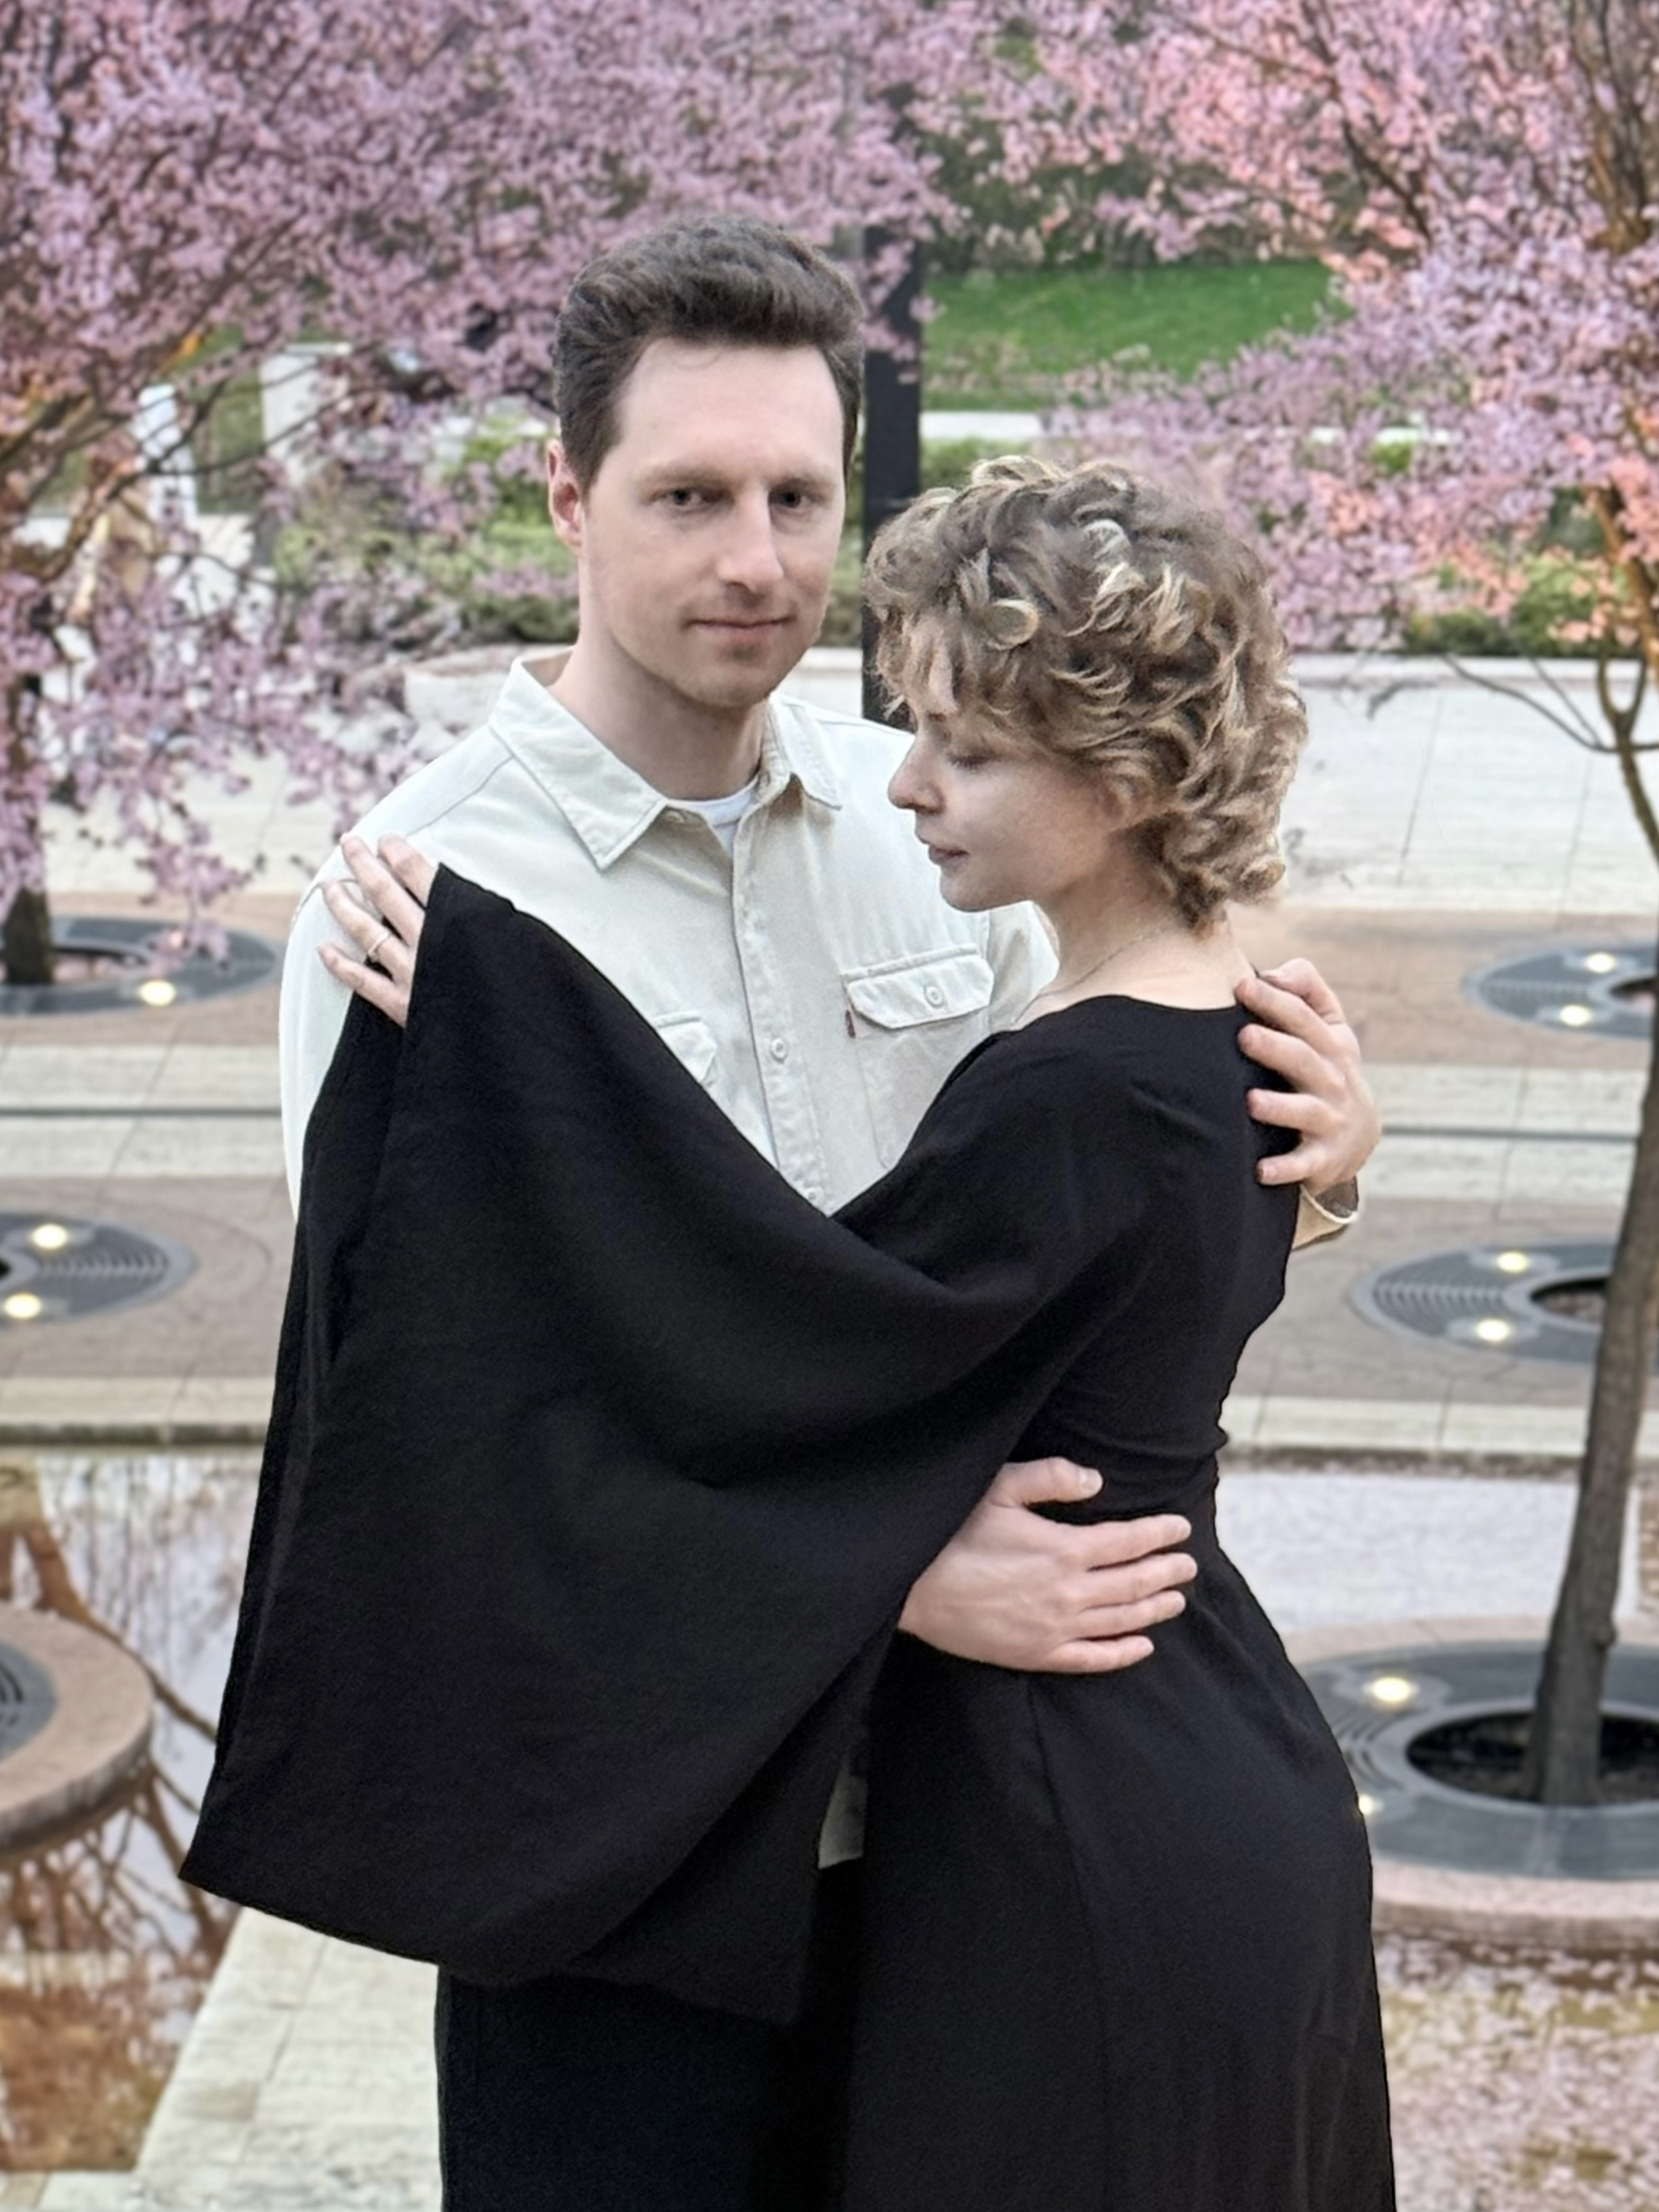
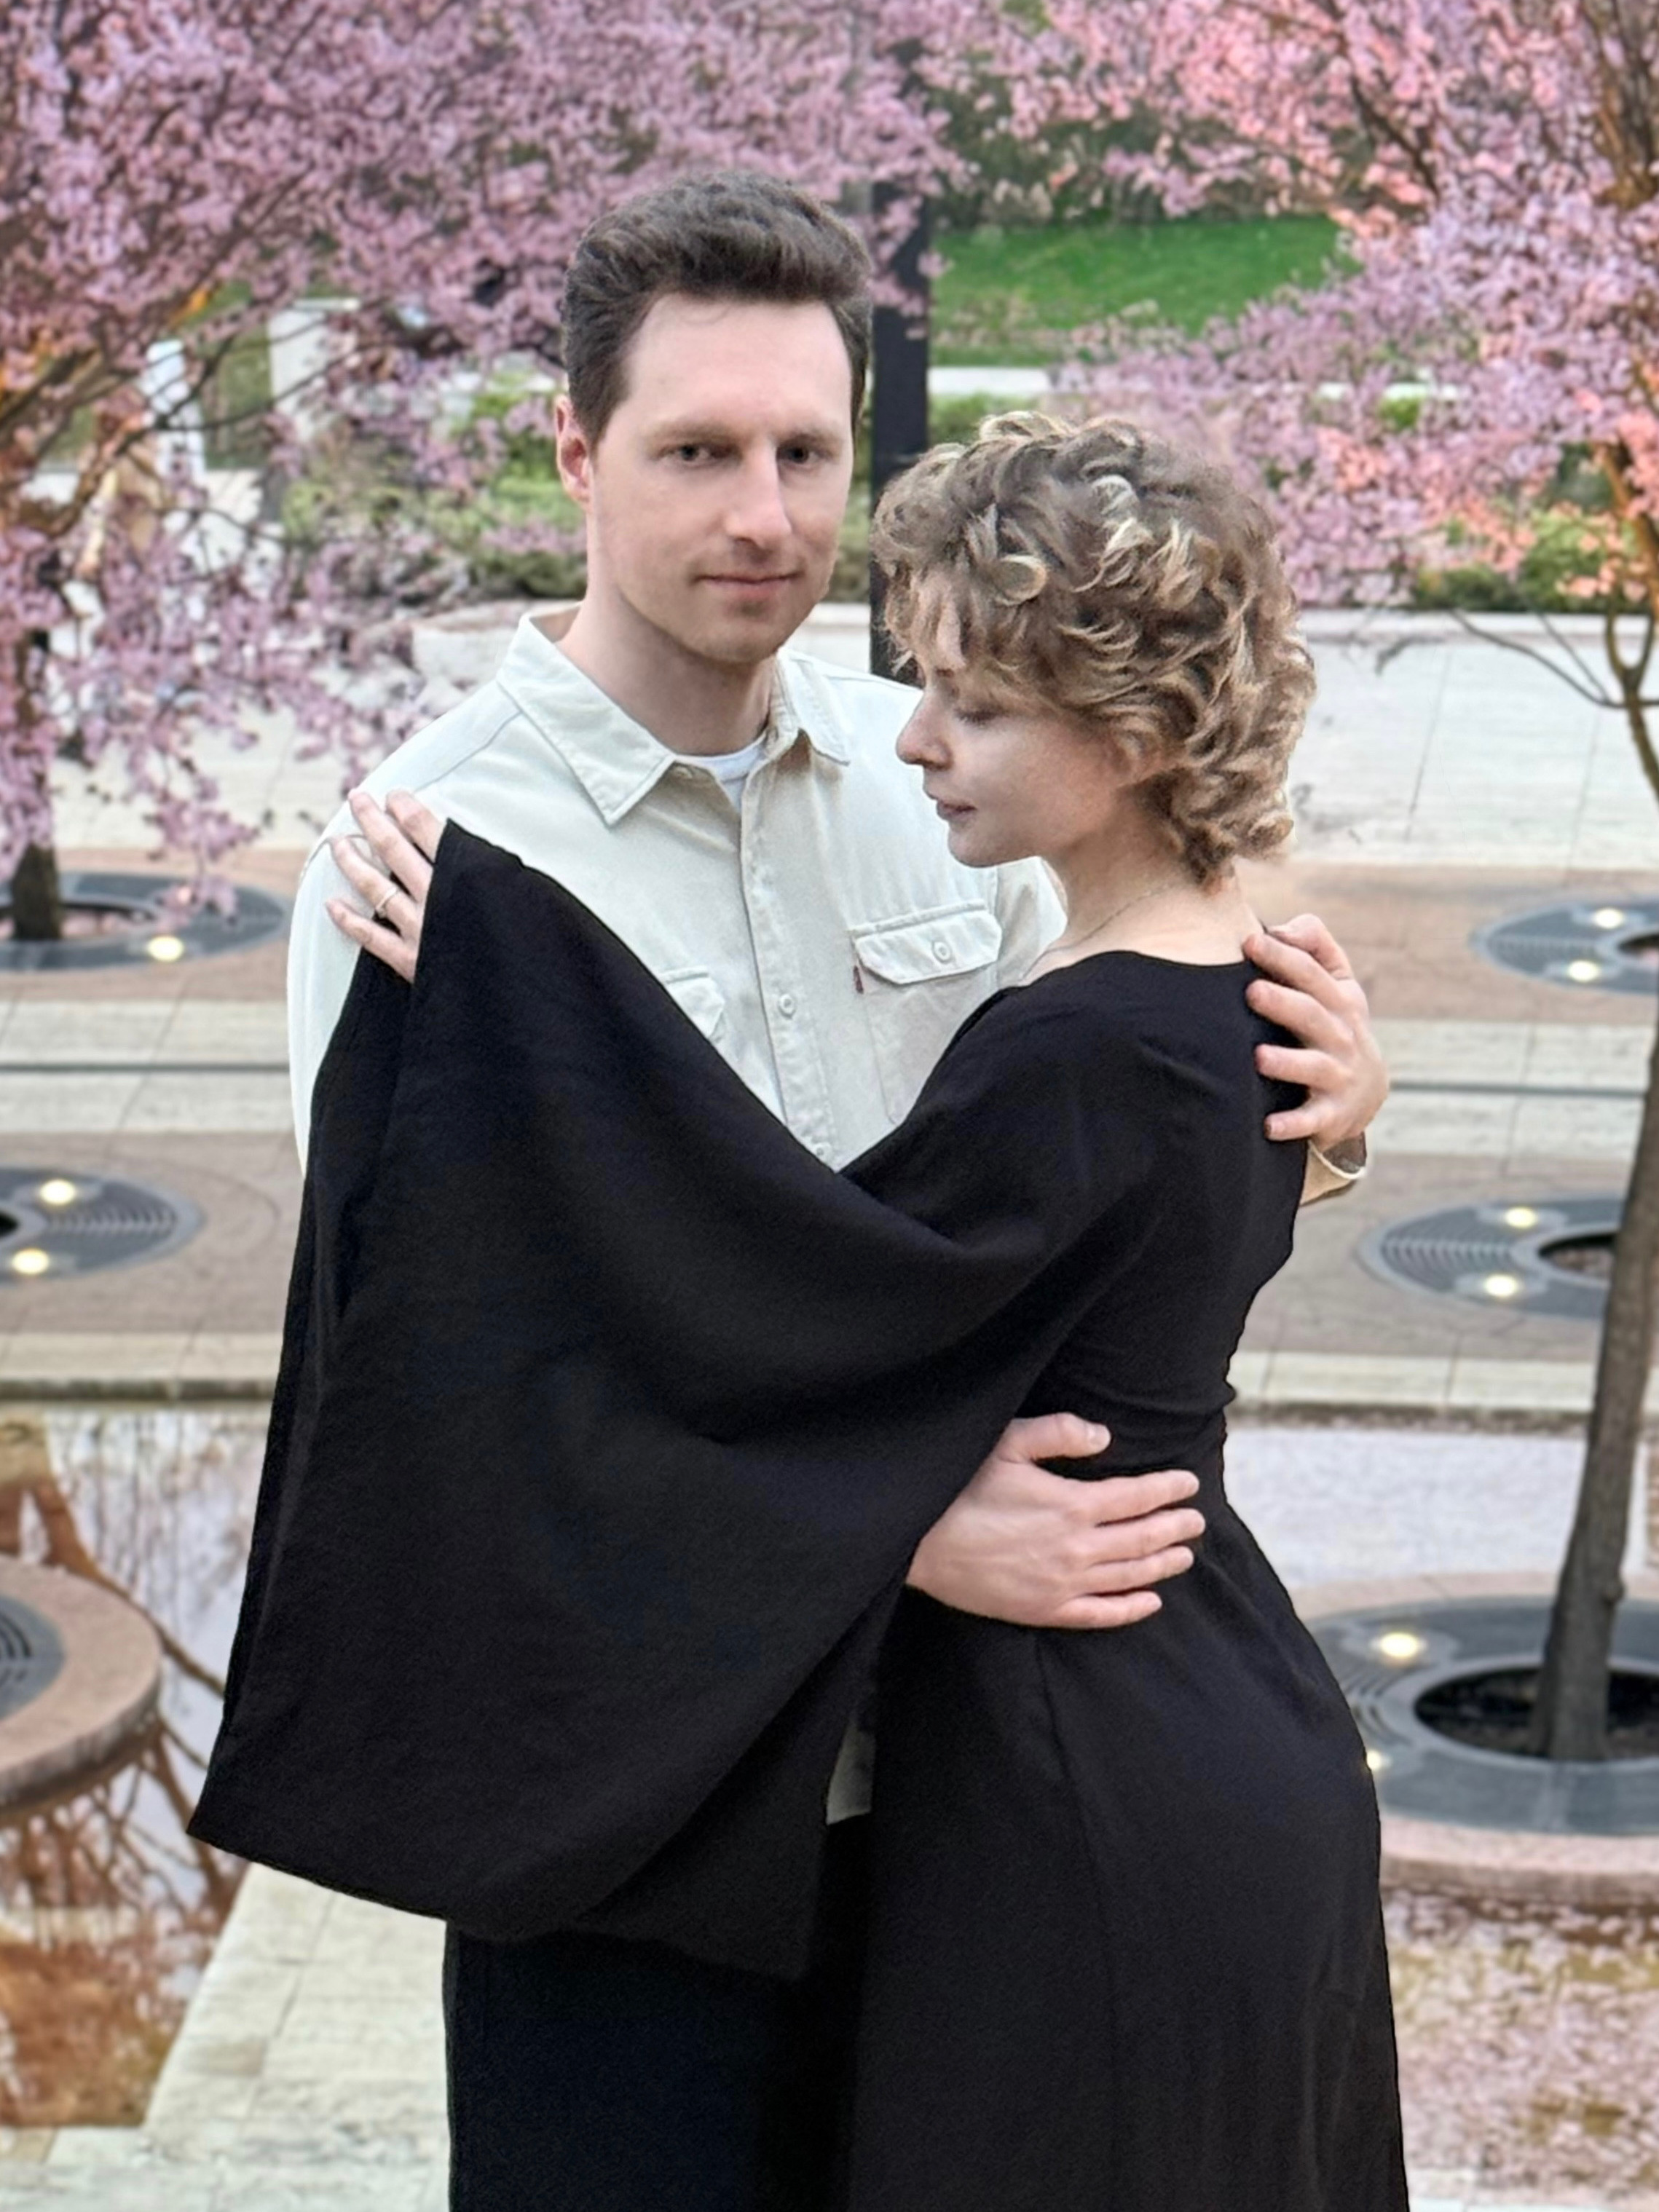
feat: замена видео и упразднение стилей в видео-блоке

diff --git a/src/app/wedding-landing.module.css b/src/app/wedding-landing.module.css
@@ -789,122 +789,6 @@
   margin-right: auto;
 }
 
-/* Текст поверх видео: лёгкая «мутность» + градиенты под контраст на любом кадре */
-.videoOverlay {
-  position: absolute;
-  inset: 0;
-  z-index: 2;
-  display: flex;
-  flex-direction: column;
-  pointer-events: none;
-  text-align: center;
-  color: #0c0c0c;
-  isolation: isolate;
-  padding: max(16px, env(safe-area-inset-top, 0px)) 20px max(88px, calc(12px + env(safe-area-inset-bottom, 0px)));
-}
-
-.videoOverlay::before {
-  content: '';
-  position: absolute;
-  inset: 0;
-  z-index: -1;
-  pointer-events: none;
-  background:
-    linear-gradient(180deg, rgba(252, 249, 245, 0.94) 0%, rgba(252, 249, 245, 0.72) 16%, rgba(252, 249, 245, 0.22) 34%, transparent 48%),
-    radial-gradient(ellipse 115% 78% at 50% 48%, rgba(255, 255, 255, 0.92) 0%, rgba(255, 255, 255, 0.55) 48%, rgba(18, 16, 14, 0.18) 100%);
-}
-
-@supports (backdrop-filter: blur(1px)) {
-  .videoOverlay::before {
-    background:
-      linear-gradient(180deg, rgba(252, 249, 245, 0.88) 0%, rgba(252, 249, 245, 0.55) 18%, rgba(252, 249, 245, 0.12) 38%, transparent 52%),
-      radial-gradient(ellipse 115% 78% at 50% 48%, rgba(255, 255, 255, 0.88) 0%, rgba(255, 255, 255, 0.42) 50%, rgba(18, 16, 14, 0.22) 100%);
-    backdrop-filter: blur(10px) saturate(1.05);
-    -webkit-backdrop-filter: blur(10px) saturate(1.05);
-  }
-}
-
-.videoOverlayHeader {
-  flex-shrink: 0;
-  position: relative;
-  z-index: 1;
-}
-
-.videoOverlayTop {
-  margin: 0;
-  font-family: var(--font-wedding-body), system-ui, sans-serif;
-  font-size: clamp(0.92rem, 2.9vw, 1.08rem);
-  font-weight: 600;
-  letter-spacing: 0.02em;
-  color: #141414;
-  text-shadow:
-    0 0 1px rgba(255, 255, 255, 1),
-    0 0 14px rgba(255, 255, 255, 0.95),
-    0 1px 2px rgba(0, 0, 0, 0.18);
-}
-
-.videoOverlayRule {
-  width: min(34%, 200px);
-  height: 2px;
-  margin: 12px auto 0;
-  background: rgba(12, 12, 12, 0.72);
-  box-shadow: 0 0 0 1px rgba(255, 255, 255, 0.35);
-}
-
-.videoOverlayMain {
-  flex: 1 1 auto;
-  display: flex;
-  flex-direction: column;
-  align-items: center;
-  justify-content: center;
-  gap: 0.15em;
-  min-height: 0;
-  position: relative;
-  z-index: 1;
-}
-
-.videoOverlayWithLove {
-  margin: 0 0 0.35em;
-  font-family: var(--font-wedding-display), 'Cormorant Garamond', Georgia, serif;
-  font-size: clamp(0.82rem, 2.4vw, 1rem);
-  font-weight: 500;
-  letter-spacing: 0.28em;
-  text-transform: uppercase;
-  color: #080808;
-  text-shadow:
-    0 0 1px rgba(255, 255, 255, 1),
-    0 0 16px rgba(255, 255, 255, 0.9),
-    0 1px 3px rgba(0, 0, 0, 0.2);
-}
-
-.videoOverlayNameLarge {
-  margin: 0;
-  font-family: var(--font-wedding-display), 'Cormorant Garamond', Georgia, serif;
-  font-size: clamp(2.35rem, 11vw, 4rem);
-  font-weight: 400;
-  line-height: 1.02;
-  letter-spacing: 0.02em;
-  color: #050505;
-  text-shadow:
-    0 0 1px rgba(255, 255, 255, 1),
-    0 0 18px rgba(255, 255, 255, 0.92),
-    0 0 36px rgba(255, 255, 255, 0.55),
-    0 2px 6px rgba(0, 0, 0, 0.22);
-}
-
-.videoOverlayConj {
-  margin: 0.2em 0;
-  font-family: var(--font-wedding-display), 'Cormorant Garamond', Georgia, serif;
-  font-size: clamp(0.95rem, 2.8vw, 1.15rem);
-  font-weight: 500;
-  line-height: 1;
-  color: #0a0a0a;
-  text-shadow:
-    0 0 1px rgba(255, 255, 255, 1),
-    0 0 14px rgba(255, 255, 255, 0.88),
-    0 1px 3px rgba(0, 0, 0, 0.2);
-}
-
 .video {
   width: 100%;
   display: block;
@@ -943,60 +827,5 @@
     height: 100%;
     max-height: none;
     object-fit: cover;
-  }
-
-  /*
-   * Мобильный полноэкранный блок: баланс — не перекрыть кадр как в первой версии,
-   * но дать заметный светлый слой под тёмным текстом (центр + края).
-   */
-  .videoOverlay::before {
-    background:
-      linear-gradient(180deg, rgba(252, 249, 245, 0.78) 0%, rgba(252, 249, 245, 0.32) 24%, rgba(252, 249, 245, 0.1) 46%, transparent 62%),
-      linear-gradient(0deg, rgba(12, 10, 8, 0.45) 0%, transparent 42%),
-      radial-gradient(ellipse 125% 88% at 50% 50%, rgba(255, 252, 248, 0.42) 0%, rgba(255, 252, 248, 0.14) 52%, transparent 78%);
-  }
-
-  @supports (backdrop-filter: blur(1px)) {
-    .videoOverlay::before {
-      background:
-        linear-gradient(180deg, rgba(252, 249, 245, 0.68) 0%, rgba(252, 249, 245, 0.26) 26%, rgba(252, 249, 245, 0.08) 48%, transparent 64%),
-        linear-gradient(0deg, rgba(8, 7, 6, 0.38) 0%, transparent 44%),
-        radial-gradient(ellipse 125% 88% at 50% 50%, rgba(255, 252, 248, 0.34) 0%, rgba(255, 252, 248, 0.1) 54%, transparent 80%);
-      backdrop-filter: blur(7px) saturate(1.04);
-      -webkit-backdrop-filter: blur(7px) saturate(1.04);
-    }
-  }
-
-  .videoOverlayTop {
-    text-shadow:
-      0 0 1px rgba(255, 255, 255, 1),
-      0 0 14px rgba(255, 255, 255, 0.96),
-      0 1px 3px rgba(0, 0, 0, 0.42),
-      0 2px 14px rgba(0, 0, 0, 0.22);
-  }
-
-  .videoOverlayWithLove {
-    text-shadow:
-      0 0 1px rgba(255, 255, 255, 1),
-      0 0 16px rgba(255, 255, 255, 0.92),
-      0 1px 4px rgba(0, 0, 0, 0.4),
-      0 2px 16px rgba(0, 0, 0, 0.2);
-  }
-
-  .videoOverlayNameLarge {
-    text-shadow:
-      0 0 1px rgba(255, 255, 255, 1),
-      0 0 18px rgba(255, 255, 255, 0.94),
-      0 0 36px rgba(255, 255, 255, 0.55),
-      0 2px 8px rgba(0, 0, 0, 0.38),
-      0 4px 22px rgba(0, 0, 0, 0.22);
-  }
-
-  .videoOverlayConj {
-    text-shadow:
-      0 0 1px rgba(255, 255, 255, 1),
-      0 0 14px rgba(255, 255, 255, 0.9),
-      0 1px 4px rgba(0, 0, 0, 0.38),
-      0 2px 14px rgba(0, 0, 0, 0.2);
   }
 }

diff --git a/src/app/wedding-landing.client.tsx b/src/app/wedding-landing.client.tsx
@@ -595,7 +595,6 @@ const WeddingLandingClient = (): ReactNode => {
       <section
         ref={videoSectionRef}
         className={styles.videoSection}
-        aria-labelledby="wedding-video-heading"
       >
         <div className={styles.videoWrap}>
           <video
@@ -609,20 +608,6 @@ const WeddingLandingClient = (): ReactNode => {
           >
             <source src={weddingSiteConfig.videoSrc} type={weddingSiteConfig.videoMimeType} />
           </video>
-          <div className={styles.videoOverlay}>
-            <div className={styles.videoOverlayHeader}>
-              <h2 id="wedding-video-heading" className={styles.videoOverlayTop}>
-                {t('weddingLanding.video.overlay.top')}
-              </h2>
-              <div className={styles.videoOverlayRule} aria-hidden />
-            </div>
-            <div className={styles.videoOverlayMain}>
-              <p className={styles.videoOverlayWithLove}>{t('weddingLanding.video.overlay.withLove')}</p>
-              <p className={styles.videoOverlayNameLarge}>{t('weddingLanding.video.overlay.nameFirst')}</p>
-              <p className={styles.videoOverlayConj}>{t('weddingLanding.video.overlay.conjunction')}</p>
-              <p className={styles.videoOverlayNameLarge}>{t('weddingLanding.video.overlay.nameSecond')}</p>
-            </div>
-          </div>
         </div>
       </section>
     </div>